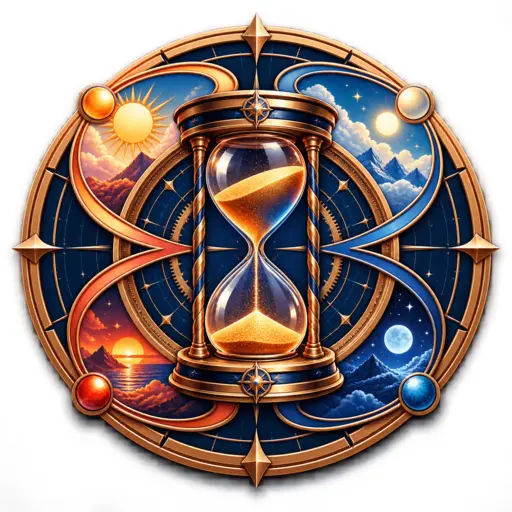
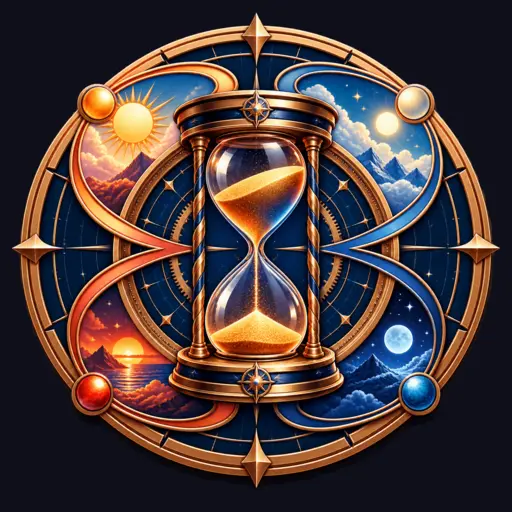
Yemek görselleri ve 100 Saat arka planı düzeltmesi (#19)
Quick asset klasörünü Flutter bundle listesine ekle ve 100 Saat rozetini FastTrack lacivert zemine birleştir.

diff --git a/test/editorial_assets_test.dart b/test/editorial_assets_test.dart
@@ -9,6 +9,7 @@ void main() {
     expect(pubspec, contains('- assets/images/editorial/v2/'));
     expect(pubspec, contains('- assets/images/editorial/v3/'));
     expect(pubspec, contains('- assets/images/editorial/v4/'));
+    expect(pubspec, contains('- assets/images/editorial/v4/quick/'));
 
     final dartFiles = Directory('lib')
         .listSync(recursive: true)
